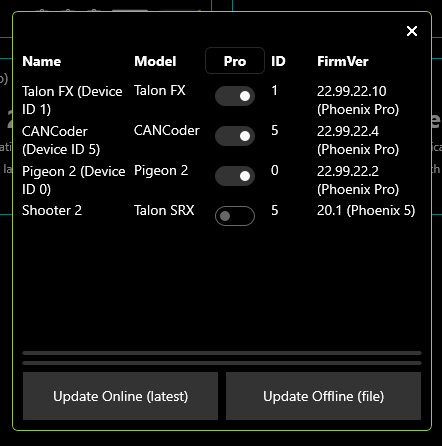
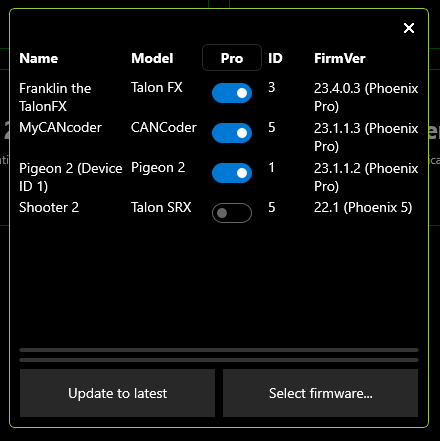
Update batch firmware upgrade dialog

diff --git a/source/docs/tuner/device-list.rst b/source/docs/tuner/device-list.rst
@@ -76,7 +76,11 @@ Once the upgrade dialog is opened, information detailing the device name, model,
 
 .. note:: The :guilabel:`Pro` column has no effect if you're using the update offline button.
 
-The user can begin the upgrade progress by selecting :guilabel:`Upgrade Online (latest)` or :guilabel:`Upgrade Offline (file)`. The first option will upgrade all listed devices to their latest available firmware (Pro or Phoenix v5 depending on the toggle state), downloading firmware if they do not already exist in cache. The latter option will prompt for each firmware file.
+The user can begin the upgrade progress by selecting :guilabel:`Upgrade to latest` or :guilabel:`Select firmware...`. The first option will upgrade all listed devices to their latest available firmware (Pro or Phoenix v5 depending on the toggle state). The latter option will open a popup allowing you to select a specific version or firmware per model.
+
+.. image:: images/batch-upgrade-firmware-selection.png
+   :width: 70%
+   :alt: Batch upgrade firmware selection screen
 
 .. tip:: Generally, users should use the update online method to update their devices. If offline updates are important, the firmware files are available for download on our `GitHub Repo <https://github.com/CrossTheRoadElec/Phoenix-Releases>`__.
 
